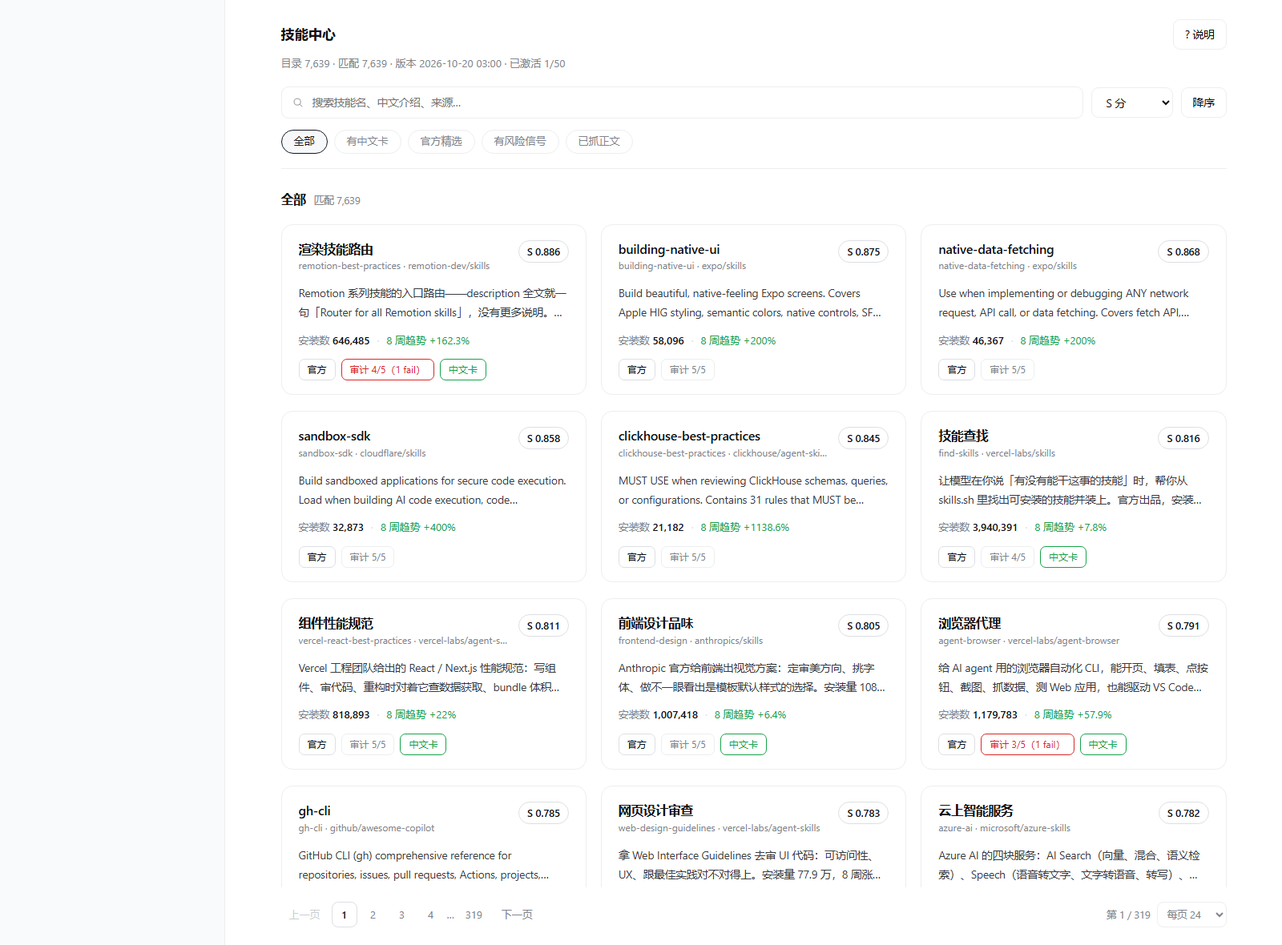
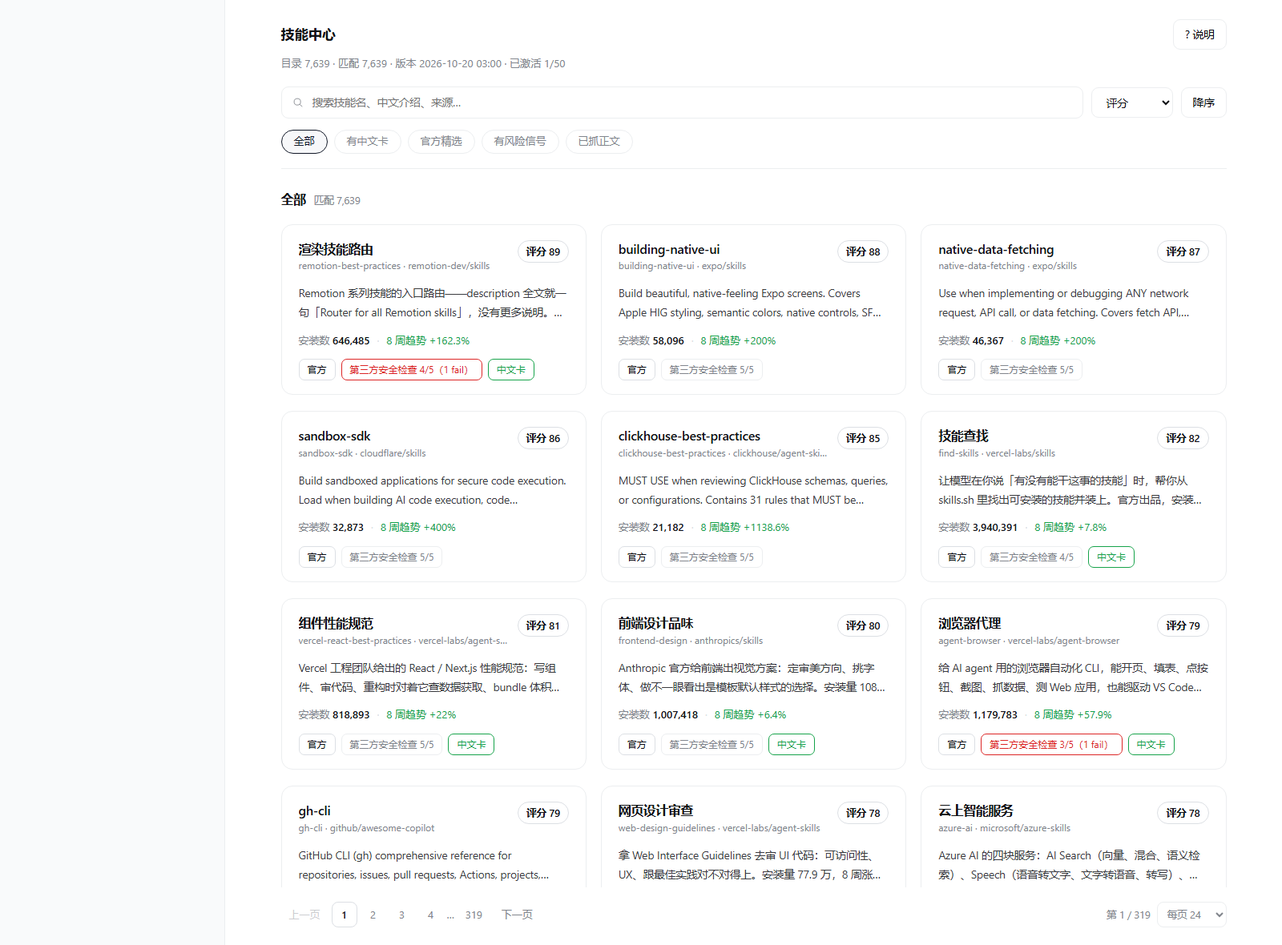
feat(ui): rename score/audit/notes in the UI and show the score out of 100
User-specified wording, display layer only — internal field names (score.S,
audit, flags) and the collected data format stay as they are:

- S score -> 评分, rendered as 0-100 (card badge '评分 88', detail line
  '88 分 · 热度 88 · 趋势 85 · 官方 100 · 安全检查 80' plus the weights)
- 审计 -> 第三方安全检查 everywhere it is shown, including the help dialog,
  the card chip and the detail section
- 使用注意事项 -> 注意事项 in the detail dialog, the rendered card text and the
  skill_card tool output, so the tool and the UI say the same thing
- detail 'id' -> 唯一标识 with a note on the format (source/repo/skill-name)
- /card now also returns the rendered card text, so the standalone ranking page
  shows the card instead of raw JSON

diff --git a/client/client.js b/client/client.js
@@ -23,7 +23,7 @@ window.__ModuleLoader__.load({
       title: '技能中心',
       search: '搜索技能名、中文介绍、来源…',
       sort: '排序',
-      sortScore: 'S 分',
+      sortScore: '评分',
       sortInstalls: '安装量',
       sortTrend: '8 周趋势',
       sortName: '名称',
@@ -52,16 +52,21 @@ window.__ModuleLoader__.load({
       none: '无',
       intro: '介绍',
       usage: '用途',
-      notes: '使用注意事项',
+      notes: '注意事项',
       installs: '安装数',
       trend: '8 周趋势',
       source: '来源',
       flags: '标记',
-      score: 'S 分',
-      audit: '审计',
-      auditNone: '没有审计结论（不等于安全）',
+      score: '评分',
+      audit: '第三方安全检查',
+      auditNone: '没有第三方安全检查结论（不等于安全）',
       auditPass: '家通过',
-      id: 'id',
+      termHeat: '热度',
+      termTrend: '趋势',
+      termOfficial: '官方',
+      termCheck: '安全检查',
+      id: '唯一标识',
+      idHint: '格式是「来源/仓库/技能名」，用来在 skills.sh 上定位这一条',
       installCmd: '自己装（在终端里跑）',
       close: '关闭',
       clickCard: '点卡片看详情',
@@ -75,27 +80,27 @@ window.__ModuleLoader__.load({
       help: '说明',
       helpTitle: '面板里的数字和标签是什么意思',
       helpIntro: '这个面板只做一件事：把 skills.sh 上几万个技能里值得看的挑出来，并把判断依据摊开。所有原始数字都来自上游，本插件只做汇总、去重和排序。',
-      helpScoreTitle: 'S 分（默认排序依据）',
-      helpScoreBody: 'S = 0.45·H + 0.20·T + 0.20·C + 0.15·A，四项都在 0～1。它不是 skills.sh 官方的分数，是本插件按「安装量 + 8 周趋势 + 官方身份 + 审计」合成的排序分；权重目前是初值。',
-      helpH: 'H 热度 = 安装量取对数后归一化。头部 394 万与腰部 3 万差 100 倍，不取对数榜单就只剩前 20 名。',
-      helpT: 'T 势能 = 8 周趋势裁剪到 −50% ～ +200% 再归一化。这是唯一能看出「正在退场」的指标；上游没给趋势时按 0% 算，会略低于中性。',
-      helpC: 'C 官方性 = 官方或精选（curated）记 1，其余 0。',
-      helpA: 'A 可信 = 五家第三方审计里 pass 的比例。没有审计数据给中性 0.5，不给 0——否则非 GitHub 来源会被系统性歧视。',
-      helpAuditTitle: '审计（第三方安全检查）',
-      helpAuditBody: '每个技能在 skills.sh 上会被五家工具各扫一遍：Gen Agent Trust Hub、Socket、Snyk、Runlayer、ZeroLeaks。结论只有 pass / warn / fail，riskLevel 是它们自己的分级（SAFE / NONE / LOW / MEDIUM / HIGH 都出现过）。卡片上的「审计 4/5」= 5 家里 4 家 pass；fail 计入分母不剔除。pass 不等于安全，只等于这五家没报问题，fail 也可能是误报。',
+      helpScoreTitle: '评分（默认排序依据，百分制 0–100）',
+      helpScoreBody: '评分 = 0.45·热度 + 0.20·趋势 + 0.20·官方 + 0.15·安全检查，每项先算成 0～1 再加权，最后乘 100 取整，所以卡片上看的是 0～100 分。它不是 skills.sh 官方的分数，是本插件自己合成的排序分；权重目前是初值。',
+      helpH: '热度 = 安装量取对数后归一化。头部 394 万与腰部 3 万差 100 倍，不取对数榜单就只剩前 20 名。',
+      helpT: '趋势 = 8 周趋势裁剪到 −50% ～ +200% 再归一化。这是唯一能看出「正在退场」的指标；上游没给趋势时按 0% 算，会略低于中性。',
+      helpC: '官方 = 官方或精选（curated）记 1，其余 0。',
+      helpA: '安全检查 = 五家第三方检查里 pass 的比例。没有审计数据给中性 0.5，不给 0——否则非 GitHub 来源会被系统性歧视。',
+      helpAuditTitle: '第三方安全检查',
+      helpAuditBody: '不是我们审的，是 skills.sh 上五家第三方工具各扫一遍：Gen Agent Trust Hub、Socket、Snyk、Runlayer、ZeroLeaks。结论只有 pass / warn / fail，riskLevel 是它们自己的分级（SAFE / NONE / LOW / MEDIUM / HIGH 都出现过）。卡片上的「第三方安全检查 4/5」= 5 家里 4 家 pass；fail 计入分母不剔除。pass 不等于安全，只等于这五家没报问题，fail 也可能是误报。',
       helpDataTitle: '安装数 / 8 周趋势',
       helpDataBody: '安装数是 skills.sh 接口快照；同一份内容被多个 owner 转发时会合并计算，卡片给的是合并后的量，详情里能看到本体量。8 周趋势 = 后四周周均 ÷ 前四周周均 − 1。',
       helpTagsTitle: '卡片上的标签',
       helpTagsBody: '官方 / 精选 = skills.sh 的官方或 curated 标记。中文卡 = 这条有中文介绍（只做了安装量前 300 条）。有正文 = 抓到了 SKILL.md 正文。风险标记见下。',
       helpSourceTitle: '数据多久更新一次',
       helpSourceBody: '线上目录由 Vercel 定时任务每天采一次，面板顶部显示的版本就是那次快照的时间；中文卡随目录一起下发，所以换版本时中文内容也会一起更新。',
-      tipScore: 'S 分：安装量 + 8 周趋势 + 官方身份 + 审计 的合成排序分，点右上「说明」看算法',
-      tipAudit: '审计：skills.sh 上五家第三方工具（Gen Agent Trust Hub / Socket / Snyk / Runlayer / ZeroLeaks）的结论；pass 不等于安全',
+      tipScore: '评分：安装量 + 8 周趋势 + 官方身份 + 第三方安全检查 合成的百分制排序分（0–100），点右上「说明」看算法',
+      tipAudit: '第三方安全检查：skills.sh 上五家工具（Gen Agent Trust Hub / Socket / Snyk / Runlayer / ZeroLeaks）的结论；pass 不等于安全',
       tipFlags: '风险标记：deprecated 已废弃 / pointer 只是转发壳 / needs_api_key 要付费 key / needs_external_cli 要先装命令行工具 / thin_body 正文极短 / has_references 带引用文件',
       tipInstalls: '安装数：来自 skills.sh 接口快照；同一份内容被多个 owner 转发时合并计算',
       tipTrend: '8 周趋势：后四周周均 ÷ 前四周周均 − 1；上游没给趋势时显示 —',
-      auditNote: '结论来自 skills.sh 的第三方审计，不是我们审的。pass 不等于安全，fail 也可能是误报。',
-      scoreNote: 'S 分是本插件按「安装量 + 趋势 + 官方 + 审计」合成的排序分，不是 skills.sh 官方的分数。',
+      auditNote: '结论来自 skills.sh 的第三方安全检查，不是我们审的。pass 不等于安全，fail 也可能是误报。',
+      scoreNote: '评分是本插件按「安装量 45% + 趋势 20% + 官方 20% + 安全检查 15%」合成的百分制分数，不是 skills.sh 官方的分数。',
       tipZh: '中文卡：这条有我们写的中文介绍，目前只覆盖安装量前 300 条',
       tipOfficial: '官方 / 精选：skills.sh 给的 official 或 curated 标记',
       tipEnriched: '有正文：已抓到 SKILL.md 正文（详情与风险标记靠它算出来）',
@@ -112,7 +117,7 @@ window.__ModuleLoader__.load({
       title: 'Skills Center',
       search: 'Search name, Chinese intro, or source…',
       sort: 'Sort',
-      sortScore: 'Score',
+      sortScore: 'Rating',
       sortInstalls: 'Installs',
       sortTrend: '8-week trend',
       sortName: 'Name',
@@ -146,11 +151,16 @@ window.__ModuleLoader__.load({
       trend: '8-week trend',
       source: 'Source',
       flags: 'Flags',
-      score: 'Score',
+      score: 'Rating',
       audit: 'Audit',
       auditNone: 'No audit verdict (not the same as safe)',
       auditPass: ' passed',
-      id: 'id',
+      termHeat: 'Heat',
+      termTrend: 'Trend',
+      termOfficial: 'Official',
+      termCheck: 'Audit',
+      id: 'Identifier',
+      idHint: 'Format: source/repo/skill-name; it locates this row on skills.sh',
       installCmd: 'Install it yourself (run in a terminal)',
       close: 'Close',
       clickCard: 'Click a card for details',
@@ -399,10 +409,10 @@ white-space:pre-wrap;word-break:break-all}
               t('helpScoreTitle'),
               t('helpScoreBody'),
               rows([
-                ['H', t('helpH')],
-                ['T', t('helpT')],
-                ['C', t('helpC')],
-                ['A', t('helpA')],
+                [t('termHeat'), t('helpH')],
+                [t('termTrend'), t('helpT')],
+                [t('termOfficial'), t('helpC')],
+                [t('termCheck'), t('helpA')],
               ]),
             ),
             section(t('helpDataTitle'), t('helpDataBody')),
@@ -468,7 +478,7 @@ white-space:pre-wrap;word-break:break-all}
           h(
             'span',
             { className: 'dsc-pill', title: t('tipScore') },
-            `S ${row.S == null ? '—' : Number(row.S).toFixed(3)}`,
+            `${t('score')} ${row.S == null ? '—' : Math.round(Number(row.S) * 100)}`,
           ),
         ),
         h(
@@ -552,7 +562,13 @@ white-space:pre-wrap;word-break:break-all}
                   h(
                     'p',
                     { className: 'dsc-text' },
-                    `${Number(score.S).toFixed(3)}（H ${score.H} / T ${score.T} / C ${score.C} / A ${score.A}）`,
+                    [
+                      `${Math.round(Number(score.S) * 100)} 分`,
+                      `${t('termHeat')} ${Math.round(Number(score.H) * 100)}`,
+                      `${t('termTrend')} ${Math.round(Number(score.T) * 100)}`,
+                      `${t('termOfficial')} ${Math.round(Number(score.C) * 100)}`,
+                      `${t('termCheck')} ${Math.round(Number(score.A) * 100)}`,
+                    ].join(' · '),
                   ),
                   h('p', { className: 'dsc-note' }, t('scoreNote')),
                 ),
@@ -614,7 +630,13 @@ white-space:pre-wrap;word-break:break-all}
                   h('pre', { className: 'dsc-code' }, row.install_hint),
                 )
               : null,
-            field(t('id'), skill.id || row.id),
+            h(
+              'div',
+              { className: 'dsc-field' },
+              h('span', { className: 'dsc-label' }, t('id')),
+              h('p', { className: 'dsc-text' }, skill.id || row.id || '—'),
+              h('p', { className: 'dsc-note' }, t('idHint')),
+            ),
           ),
         ),
       );

diff --git a/lib/catalog.js b/lib/catalog.js
@@ -77,7 +77,7 @@ function matchScore(skill, words) {
   return match;
 }
 
-/** 浏览排序：名字靠 S 分，其余直接按数值；缺值排最后而不是当成 0。 */
+/** 浏览排序：名字靠评分，其余直接按数值；缺值排最后而不是当成 0。 */
 const SORTS = {
   S: (a, b) => (b.score?.S ?? -1) - (a.score?.S ?? -1),
   installs: (a, b) => (b.installs ?? -1) - (a.installs ?? -1),
@@ -197,7 +197,7 @@ export async function browseSkills({
   };
 }
 
-/** 全字段子串检索，按命中权重之和排序，再以 S 分微调。 */
+/** 全字段子串检索，按命中权重之和排序，再以评分微调。 */
 export async function searchSkills(query, limit = 10) {
   const cat = await loadCatalog();
   const words = tokens(query);
@@ -249,7 +249,7 @@ export function verdictOf(skill) {
         ? `介绍（上游英文原文）— ${excerpt(skill.description_en, 240)}`
         : '介绍 — 上游没给描述，这条目前只有名称、装量、审计结论',
     `用途 — ${zh.usage || '—'}`,
-    `使用注意事项 — ${zh.notes || '—'}`,
+    `注意事项 — ${zh.notes || '—'}`,
     `安装数 — ${skill.installs ?? '—'}`,
     `8 周趋势 — ${skill.trend_pct == null ? '—' : `${skill.trend_pct > 0 ? '+' : ''}${skill.trend_pct}%`}`,
     `来源 — ${skill.source}`,
@@ -257,7 +257,13 @@ export function verdictOf(skill) {
   if (!zh.intro) lines.push('中文卡 — 未覆盖（只做安装量前 300 条）');
   const extras = [];
   if (skill.flags?.length) extras.push(`标记 — ${skill.flags.join(', ')}`);
-  if (s.S != null) extras.push(`S 分 — ${s.S.toFixed(3)}（H ${s.H} / T ${s.T} / C ${s.C} / A ${s.A}）`);
+  // 评分统一百分制；四项也按 0–100 展示，权重写在标签里，免得看的人自己换算
+  if (s.S != null) {
+    const pct = (v) => Math.round(Number(v ?? 0) * 100);
+    extras.push(
+      `评分 — ${pct(s.S)}（热度 ${pct(s.H)} · 趋势 ${pct(s.T)} · 官方 ${pct(s.C)} · 安全检查 ${pct(s.A)}）`,
+    );
+  }
   if (skill.id) extras.push(`id — ${skill.id}`);
   return [...lines, ...extras].join('\n');
 }

diff --git a/lib/index.js b/lib/index.js
@@ -30,7 +30,8 @@ const plain = (value) => JSON.parse(JSON.stringify(value ?? null));
 
 function oneLine(skill) {
   const trend = skill.trend_pct == null ? '' : ` ${skill.trend_pct > 0 ? '+' : ''}${skill.trend_pct}%`;
-  return `${skill.slug}${skill.name_zh ? `（${skill.name_zh}）` : ''} — ${verdictOf(skill)} · 装 ${skill.installs ?? '—'}${trend} · S ${(skill.score?.S ?? 0).toFixed(3)}`;
+  const rating = Math.round((skill.score?.S ?? 0) * 100);
+  return `${skill.slug}${skill.name_zh ? `（${skill.name_zh}）` : ''} — ${verdictOf(skill)} · 装 ${skill.installs ?? '—'}${trend} · 评分 ${rating}`;
 }
 
 export function apply(ctx, config = {}) {
@@ -280,7 +281,8 @@ export function apply(ctx, config = {}) {
               }
               if (url.pathname === '/api/dsh-skills-center/card') {
                 const skill = await getSkill(url.searchParams.get('id') || '');
-                return skill ? send(200, skill) : send(404, { error: 'not_found' });
+                // 顺手带上渲染好的卡片文本：榜单页的详情栏就用它，别让消费方自己拼
+                return skill ? send(200, { ...skill, text: renderCard(skill) }) : send(404, { error: 'not_found' });
               }
               if (url.pathname === '/api/dsh-skills-center/sync') {
                 // 会改盘上的目录，只允许 POST；GET 留给 status 读取现在的状态。

diff --git a/lib/page.js b/lib/page.js
@@ -68,7 +68,7 @@ aside h2{font-size:14px;margin:0 0 8px}
   <div><table>
     <thead><tr>
       <th data-k="idx">#</th><th data-k="name">技能</th><th data-k="installs">安装数</th>
-      <th data-k="trend_pct">8 周</th><th data-k="S">S</th><th>判断 / 标记</th>
+      <th data-k="trend_pct">8 周</th><th data-k="S">评分</th><th>判断 / 标记</th>
     </tr></thead>
     <tbody id="rows"></tbody>
   </table></div>
@@ -107,7 +107,7 @@ function draw() {
       + '<td><div class="name"></div><div class="sub"></div></td>'
       + '<td class="num">' + fmt(r.installs) + '</td>'
       + '<td class="num">' + pct(r.trend_pct) + '</td>'
-      + '<td class="num">' + (r.S == null ? '—' : r.S.toFixed(3)) + '</td>'
+      + '<td class="num">' + (r.S == null ? '—' : Math.round(r.S * 100)) + '</td>'
       + '<td><div class="sub"></div></td>';
     tr.querySelector('.name').textContent = r.name;
     tr.querySelector('.name + .sub').textContent = r.slug;

diff --git a/README.md b/README.md
@@ -3,7 +3,7 @@
 skills.sh 有八千多个技能，问题是**你不知道它们存在**，也想不起来用。这个插件做三件事：
 
 1. **目录**：把全量技能离线落到本地，带中文介绍、用途、注意事项、安装量、8 周趋势、来源。
-2. **判断**：按 `S = 0.45·H + 0.20·T + 0.20·C + 0.15·A` 排序（H 安装量取对数、T 增长率、C 官方/curated、A 审计通过率），并对"转发壳/废弃/需要付费 key"这类坑打标记。
+2. **判断**：按 `评分 = 0.45·热度 + 0.20·趋势 + 0.20·官方 + 0.15·安全检查` 排序（安装量取对数、增长率裁剪、官方 curated 标记、第三方安全检查通过率），界面上显示成 0–100 分，并对"转发壳/废弃/需要付费 key"这类坑打标记。
 3. **按需激活**：库存里有几十个技能只占磁盘；激活集合上限 50，只有激活的才进系统提示——避免把上下文塞满反而稀释技能选择。
 4. **跟着上游走**：模型可以通过 `skill_sync` 从远端拉一份新目录，换掉本地那份（先落 `.prev` 备份，失败就什么都不动）。没部署远端时它明确报错，退回本地目录继续用。
 
@@ -23,11 +23,11 @@ npm test        # 冒烟：provider.list/get、四个工具、50 上限、浏览
 装进 DSH 后，**左侧栏出现一个「技能中心」图标**，点开是主区的卡片墙（和插件市场同一套版式）：
 
 - 顶部一行状态：`目录 7572 · 匹配 N · 版本 2026-10-20 03:00 · 已激活 n/50`；
-- 工具条：搜索框（服务端搜全目录，不只这一屏）、排序下拉（S 分 / 安装量 / 8 周趋势 / 名称）、升/降切换；
+- 工具条：搜索框（服务端搜全目录，不只这一屏）、排序下拉（评分 / 安装量 / 8 周趋势 / 名称）、升/降切换；
 - 筛选胶囊：全部 / 有中文卡 / 官方精选 / 有风险信号 / 已抓正文；
-- 卡片墙：每张卡是「中文名 + slug·来源 + S 分 + 两行介绍 + 安装量与 8 周趋势 + 最多两个标签」；点卡片弹出详情——完整中文卡（介绍/用途/注意事项）、S 分四维拆解、五家审计逐条结论、首次收录时间，GitHub 来源还会给出 `npx skills add <source> --skill <slug>` 这条自己跑的命令；
+- 卡片墙：每张卡是「中文名 + slug·来源 + 评分（0–100）+ 两行介绍 + 安装量与 8 周趋势 + 最多两个标签」；点卡片弹出详情——完整中文卡（介绍/用途/注意事项）、评分四维拆解、五家第三方安全检查逐条结论、首次收录时间、唯一标识（`来源/仓库/技能名`），GitHub 来源还会给出 `npx skills add <source> --skill <slug>` 这条自己跑的命令；
 - 底部分页：`上一页 1 2 … N 下一页`，右侧「第 X / Y 页 · 每页 24/48/96/192」。整块内容限宽 1180px **居中**，两侧留白随窗口自适应；
-- **右上角 `? 说明`**：一个弹层把 S 分算法（H/T/C/A 逐项）、审计口径（五家 provider、pass/warn/fail、fail 计入分母）、卡片标签含义、数据更新频率一次讲清。卡片上的 S 分、审计、风险标记也都带鼠标悬停提示；详情弹层里 S 分与审计结论下面各附一句口径说明（「pass 不等于安全」「S 分不是 skills.sh 官方的分数」）。
+- **右上角 `? 说明`**：一个弹层把评分算法（热度/趋势/官方/安全检查逐项）、第三方安全检查口径（五家 provider、pass/warn/fail、fail 计入分母）、卡片标签含义、数据更新频率一次讲清。卡片上的评分、第三方安全检查、风险标记也都带鼠标悬停提示；详情弹层里评分与检查结论下面各附一句口径说明（「pass 不等于安全」「评分不是 skills.sh 官方的分数」）。
 
 面板是**只读**的：它只从插件自己的 `/api/dsh-skills-center/list` 与 `/card` 取数据，不写任何状态。要装、要激活还是走工具（`skill_activate`）——GUI 里点一下就能装是下一步的事，得先有「下载正文到库存」的路径，否则按钮按下去只会得到一句「库存里没有正文」。
 
@@ -86,7 +86,7 @@ npm test        # 冒烟：provider.list/get、四个工具、50 上限、浏览
 
 | 环节 | 文件 | 干什么 |
 |---|---|---|
-| 挑条目 | `tools/zh_source.mjs` | 从同步下来的目录里按安装量取前 300，切 6 片喂给写手，每片带全字段事实（描述、装量、趋势、审计） |
+| 挑条目 | `tools/zh_source.mjs` | 从同步下来的目录里按安装量取前 300，切 6 片喂给写手，每片带全字段事实（描述、装量、趋势、第三方安全检查） |
 | 校验 | `tools/zh_validate.mjs` | 单条硬校验：字段长度、禁用词、占位符、中英混排 |
 | 合并 | `tools/zh_merge.mjs` | 6 片并成 `data/zh.json`，跨片重复 id、超长、禁用词直接失败不落盘 |
 | 采集 | `api/collect.js` | 构建时把 `data/zh.json` import 进来，按 id 贴到每条记录上，随目录写进 Blob |

diff --git a/DESIGN.md b/DESIGN.md
@@ -96,13 +96,16 @@ hash 变则重新生成——技能内容改了，旧中文自动失效，不需
 ## 5. 打分
 
 ```
-S = 0.45·H + 0.20·T + 0.20·C + 0.15·A
+S = 0.45·H + 0.20·T + 0.20·C + 0.15·A      # 内部字段叫 score.S（0–1）
+评分 = round(S × 100)                       # 界面上只显示 0–100 的「评分」
 ```
+
+> 命名：用户 2026-10-20 把界面上的「S 分」改成「评分」并要求百分制，把「审计」改成「第三方安全检查」、「使用注意事项」改成「注意事项」、详情里的 `id` 改成「唯一标识」。内部字段名（`score.S`、`audit`、`flags`）保持不变，只改展示层，避免动采集产物格式。
 
 - **H 热度** = `log10(1+installs)` 归一化。必须取对数：头部 139 万与腰部 3 万差 46 倍，线性尺度会让榜单只剩前 20 个。
 - **T 势能** = 8 周序列后半段/前半段的增长率，裁剪到 `[-50%, +200%]` 再归一化。趋势是唯一能反映"正在退场"的指标（`lark-drive` 总量 46 万但八周 −52%）。
 - **C 官方性** = curated 或 owner 属厂商官方（anthropics / vercel-labs / microsoft / supabase / prisma / larksuite…）= 1，否则 0。
-- **A 可信** = 审计 pass 占比；无审计数据记中性 0.5，不给 0（否则非 GitHub 来源被系统性歧视）。
+- **A 可信** = 第三方安全检查 pass 占比；无检查数据记中性 0.5，不给 0（否则非 GitHub 来源被系统性歧视）。界面上这一项叫「安全检查」，卡片徽标是「第三方安全检查 4/5」。
 
 权重还没定死：0.45/0.20/0.20/0.15 是初值，等目录跑起来看榜单观感再调。
 
@@ -123,7 +126,7 @@ S = 0.45·H + 0.20·T + 0.20·C + 0.15·A
 
 ## 7. 卡片文案规范（重要，来自实拍反馈）
 
-**字段固定为 7 项，顺序不变**：`名称` / `介绍` / `用途` / `使用注意事项` / `安装数` / `8 周趋势` / `来源`。
+**字段固定为 7 项，顺序不变**：`名称` / `介绍` / `用途` / `注意事项` / `安装数` / `8 周趋势` / `来源`。（用户 2026-10-20 把第 4 项从「使用注意事项」缩成「注意事项」；详情弹层里另有「评分」「第三方安全检查」「安装命令」「唯一标识」四块补充信息。）
 
 字段固定不等于填表腔。第一版用"一句话 / 什么时候用我 / 它到底给什么 / 依赖风险"这套自造小标题，用户评审结论是**"满满的 AI 味"**。问题出在措辞而非结构，因此字段之外另有五条写法要求：
 
@@ -204,7 +207,7 @@ export function apply(ctx, config) { /* … */ }
 - **数据只走插件自己的只读 JSON**：`GET /api/dsh-skills-center/list?q=&limit=&offset=&zh=1&filter=&sort=S|installs|trend|name&dir=desc|asc`，返回 `{version,total,matched,offset,limit,sort,dir,filter,active,maxActive,rows[]}`。每行只带一张卡要用的字段（`id/slug/name/name_zh/source/source_kind/installs/installs_merged/trend_pct/S/score/verdict/flags/has_zh/description/official/curated/enriched/first_seen/audit/install_hint`）——整条记录连正文发过去，七千多行会撑到几 MB；`limit` 硬上限 500。点卡片再打 `GET /card?id=` 取整卡。
   - `filter` 取值：`zh`（有中文卡）/ `official`（official 或 curated）/ `risky`（有 flags，或审计里出现 warn/fail）/ `enriched`（抓过详情、有 hash）。
   - `install_hint` **只在 `source_kind === 'github'` 时给** `npx skills add <source> --skill <slug>`；域名来源（`open.feishu.cn` 这类）给 null——宁可什么都不显示，也不给一条跑不通的命令。
-  - `audit` 折成计数 `{judged,pass,warn,fail}`：卡片上写「审计 4/5 家通过」，详情弹层里才逐条列 provider 与 riskLevel。
+  - `audit` 折成计数 `{judged,pass,warn,fail}`：卡片上写「第三方安全检查 4/5」，详情弹层里才逐条列 provider 与 riskLevel。
 - **版式**（用户 2026-10-20 拿插件市场截图连提两轮：先是「我想要的是类似这样的」，再是「内容两侧要有自适应留白，加载更多不合适」）：顶部状态行 + 工具条（搜索 / 排序下拉 / 升降切换）+ 筛选胶囊 + **卡片墙** + 底部分页。三条量化后的硬规则：
   - **内容栏限宽 1180px 并居中**（`.dsc-inner{margin:0 auto}`）：页头、卡片墙、底栏共用同一栏，两侧留白随窗口自适应。之前拉满整屏会排成 5 列，实测"像墙"。
   - 卡片最小 360px、间距 20/18 → 常见窗口下 3 列；卡片内边距 19/21、内部间距 13。

diff --git a/HANDOFF.md b/HANDOFF.md
@@ -271,5 +271,17 @@ f6e6c8c test: cover web api + honest activate when body missing
 - 详情弹层：S 分下面加「不是 skills.sh 官方的分数」，审计结论下面加「pass 不等于安全」，flags 从一行拼接改成 `flag — 解释` 的逐条列表。
 - 文案全部进 `client/client.js` 的 ZH/EN 词典（`help*` / `tip*` / `flag*` / `auditNote` / `scoreNote`），中英各一份。
 - 测试：`tests/client.test.mjs` 新增「点说明按钮 → 弹层里必须出现公式、五家 provider、六个 flag、更新频率」与三条 tooltip 断言。
-- 说明弹层用 `tmp/render-panel.mjs`（现在会同时出「面板」和「说明打开」两张预览）+ 视觉复核，从「层级不清、行宽过宽」改到 8 分。
+- 说明弹层用 `tmp/render-panel.mjs`（现在会同时出「面板」「详情」「说明打开」三张预览）+ 视觉复核，从「层级不清、行宽过宽」改到 8 分。
+
+#### 9.3.4 展示层改名（同日，用户逐条指定）
+
+用户要求：`S 分` → `评分` 且改百分制；`审计` → `第三方安全检查`；`使用注意事项` → `注意事项`；详情弹层里的 `id` 换个中文名。做法：
+
+- 只改**展示层**，内部字段名不动（`score.S`、`audit`、`flags`），采集产物格式与 `/list` 返回字段全不变，避免连带改采集端与历史数据。
+- 评分：卡片徽标 `评分 88`（`Math.round(S×100)`），详情写成 `88 分 · 热度 88 · 趋势 85 · 官方 100 · 安全检查 80`，权重说明放在下面一行。
+- 第三方安全检查：卡片徽标变长（`第三方安全检查 4/5`），详情标题与说明同步；「没有第三方安全检查结论（不等于安全）」。
+- 注意事项：`lib/catalog.js` 的 `renderCard`、卡片详情、`skill_card` 工具输出一起改，免得工具和界面两套说法。
+- 唯一标识：标签叫「唯一标识」，下面附一行 `格式是「来源/仓库/技能名」，用来在 skills.sh 上定位这一条`。
+- 顺带修掉：`/card` 接口现在会带上渲染好的 `text`（`renderCard`），榜单页的详情栏不再显示原始 JSON。
+- 测试同步：`tests/client.test.mjs` 断言 `评分 66`、`注意事项`、`第三方安全检查`、`唯一标识`、`来源/仓库/技能名`；`tests/smoke.mjs` 的卡片字段清单加了 `评分 —`。
 
